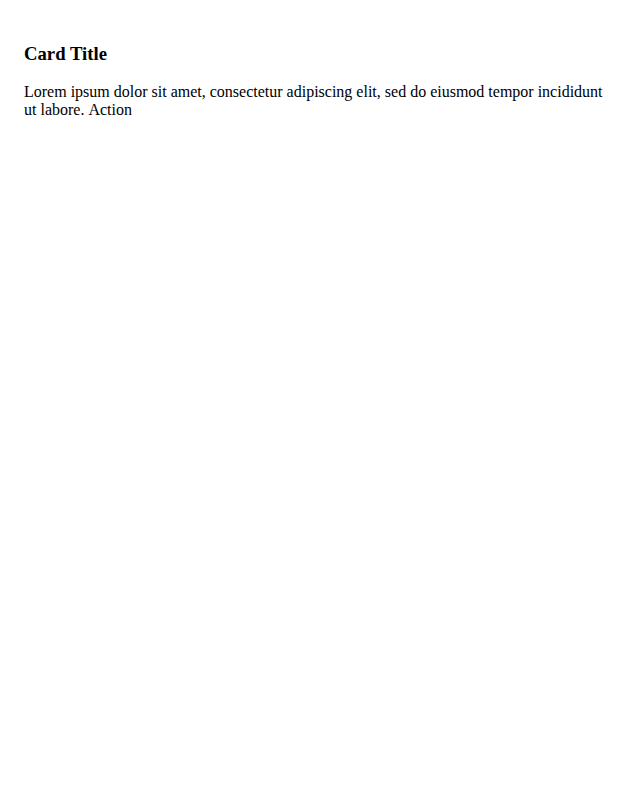
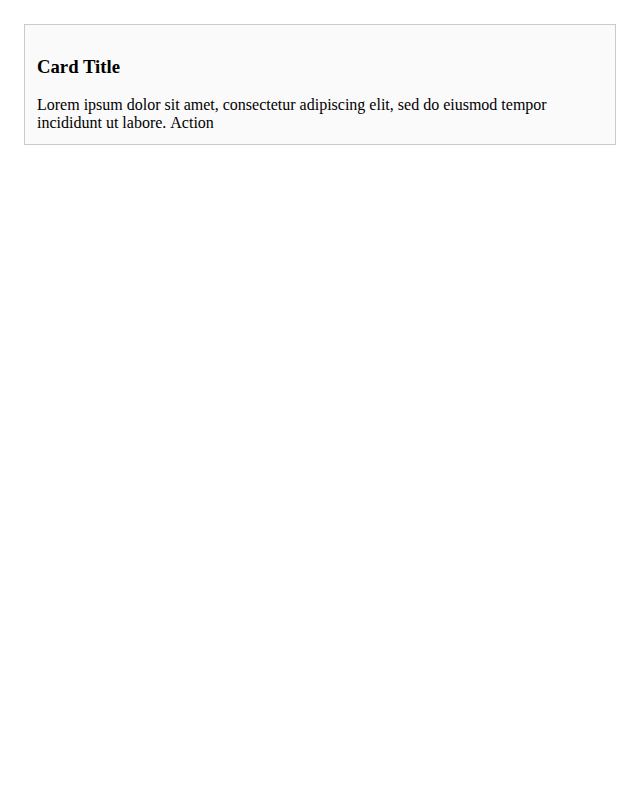
fix(helix): fix eight more base examples, and a doubled link
Quality pass, second batch.

Card had no box, so a heading and a paragraph sat loose on the page. Button was
bare text, the branch that undresses triggers being right about the platform and
wrong about a diagram. Button Group had the same and did not get the fix, because
`EXTRA` is keyed by family and its three children are buttons: the box is a
shared constant now, referenced by both.

Table was the interesting one. Its own docs say the head and every row are
`display: contents` so their cells become the grid's items, and the styled tier
was the only place that had been written. Without it the grid held three items
where it wanted nine, so three headings ran together as "ServiceRegionStatus"
with the rows beneath them out of step.

Skeleton rendered nothing at all, its layout classes living in `default.css`
which this generator does not carry across. A skeleton has no size of its own by
design, so the classes are the diagram.

List ran a name into the caption under it. Toast ran the tone mark, the message
and the dismiss together with no surface to sit on. Meter had a track at
`inline-size: 100%` inside a host with no width, so 42 percent drew as the
characters and no bar.

And Skeleton's markup linked its own stylesheet, so the generated copy carried
two identical links: harmless to render, and a diagram telling a reader to write
the line twice.

Changed region(s): [[0.0312, 0.0312, 0.9375, 0.1875]]

diff --git a/helix/web/src/table/.examples/base.css b/helix/web/src/table/.examples/base.css
@@ -64,3 +64,21 @@ helix-base-icon::part(svg) {
   flex: none;
   inline-size: 1em;
 }
+
+helix-base-table::part(table) {
+  display: grid;
+  gap: 0.25rem 1rem;
+  grid-template-columns: var(--table-template, 1fr);
+}
+
+/* The head and every row take no box, so their cells are the grid's items.
+   
+   That is stated in the component's own docs as something the styled tier does,
+   and the styled tier was the only place it was written: without it the cells
+   stayed inside their rows, the grid had three items where it wanted nine, and
+   the three headings ran together as "ServiceRegionStatus" with the rows under
+   them out of step. */
+helix-base-table::part(head),
+helix-base-table-row {
+  display: contents;
+}

diff --git a/helix/web/src/button-group/.examples/base.css b/helix/web/src/button-group/.examples/base.css
@@ -43,6 +43,11 @@ helix-base-icon {
   inline-size: 1em;
 }
 
+helix-base-button-group {
+  display: inline-flex;
+  gap: 0.25rem;
+}
+
 helix-base-button::part(button) {
   all: unset;
   box-sizing: border-box;
@@ -61,4 +66,12 @@ helix-base-icon::part(svg) {
 helix-base-button::part(button):focus-visible {
   outline: 2px solid var(--_gray-mark);
   outline-offset: 2px;
+}
+
+helix-base-button::part(button) {
+  background-color: var(--_gray-surface);
+  border: 1px solid var(--_gray-line);
+  cursor: pointer;
+  display: inline-flex;
+  padding: 0.25rem 0.75rem;
 }

diff --git a/helix/web/src/skeleton/.examples/base.css b/helix/web/src/skeleton/.examples/base.css
@@ -67,8 +67,30 @@ helix-base-icon::part(svg) {
   inline-size: 1em;
 }
 
-helix-base-skeleton::part(skeleton) {
-  background-color: var(--_gray-fill);
-  display: block;
-  min-block-size: 1em;
+.row {
+  align-items: center;
+  display: flex;
+  gap: 0.75rem;
+}
+
+.avatar {
+  block-size: 2.5rem;
+  border-radius: 50%;
+  inline-size: 2.5rem;
+}
+
+.stack,
+.lines {
+  display: flex;
+  flex: 1;
+  flex-direction: column;
+  gap: 0.5rem;
+}
+
+.line-name {
+  inline-size: 40%;
+}
+
+.line-detail {
+  inline-size: 70%;
 }

diff --git a/helix/web/src/toast/.examples/base.css b/helix/web/src/toast/.examples/base.css
@@ -98,3 +98,22 @@ helix-base-toast-item::part(item):focus-visible {
   outline: 2px solid var(--_gray-mark);
   outline-offset: 2px;
 }
+
+helix-base-toast::part(region) {
+  display: flex;
+  flex-direction: column;
+  gap: 0.5rem;
+}
+
+helix-base-toast-item::part(item) {
+  align-items: center;
+  background-color: var(--_gray-surface);
+  border: 1px solid var(--_gray-line);
+  display: flex;
+  gap: 0.5rem;
+  padding: 0.5rem 0.75rem;
+}
+
+helix-base-toast-item::part(content) {
+  flex: 1;
+}

diff --git a/helix/web/src/button/.examples/base.css b/helix/web/src/button/.examples/base.css
@@ -62,3 +62,11 @@ helix-base-button::part(button):focus-visible {
   outline: 2px solid var(--_gray-mark);
   outline-offset: 2px;
 }
+
+helix-base-button::part(button) {
+  background-color: var(--_gray-surface);
+  border: 1px solid var(--_gray-line);
+  cursor: pointer;
+  display: inline-flex;
+  padding: 0.25rem 0.75rem;
+}

diff --git a/helix/web/src/scroll-area/.examples/base.html b/helix/web/src/scroll-area/.examples/base.html
@@ -5,10 +5,6 @@
   rel="stylesheet"
 />
 
-<link
-  href="styles.css"
-  rel="stylesheet"
->
 <helix-base-scroll-area label="Release notes">
   <p>Cheap intelligence and cheap energy are collapsing in cost at the same moment.</p>
   <p>What was affordable only to an institution becomes affordable to a person.</p>

diff --git a/helix/web/src/card/.examples/base.css b/helix/web/src/card/.examples/base.css
@@ -43,6 +43,13 @@ helix-base-icon {
   inline-size: 1em;
 }
 
+helix-base-card {
+  background-color: var(--_gray-surface);
+  border: 1px solid var(--_gray-line);
+  display: block;
+  padding: 0.75rem;
+}
+
 helix-base-button::part(button) {
   all: unset;
   box-sizing: border-box;

diff --git a/helix/web/src/image/.examples/base.html b/helix/web/src/image/.examples/base.html
@@ -5,10 +5,6 @@
   rel="stylesheet"
 />
 
-<link
-  href="styles.css"
-  rel="stylesheet"
-/>
 <helix-base-image
   alt="A road winding below highland cliffs at sunset"
   src="https://images.unsplash.com/photo-1470071459604-3b5ec3a7fe05?w=800"

diff --git a/helix/web/src/list/.examples/base.css b/helix/web/src/list/.examples/base.css
@@ -54,3 +54,10 @@ helix-base-icon::part(svg) {
   flex: none;
   inline-size: 1em;
 }
+
+helix-base-list-item::part(row) {
+  align-items: baseline;
+  display: flex;
+  gap: 0.5rem;
+  padding: 0.25rem 0;
+}

diff --git a/helix/web/src/meter/.examples/base.css b/helix/web/src/meter/.examples/base.css
@@ -43,6 +43,10 @@ helix-base-icon {
   inline-size: 1em;
 }
 
+helix-base-meter {
+  display: block;
+}
+
 helix-base-meter::part(track) {
   background-color: var(--_gray-fill);
   block-size: 0.5rem;

diff --git a/helix/web/src/skeleton/.examples/base.html b/helix/web/src/skeleton/.examples/base.html
@@ -5,11 +5,6 @@
   rel="stylesheet"
 />
 
-<link
-  href="styles.css"
-  rel="stylesheet"
-/>
-
 <div class="row">
   <helix-base-skeleton class="avatar"></helix-base-skeleton>
   <div class="stack">

diff --git a/helix/web/src/splitter/.examples/base.html b/helix/web/src/splitter/.examples/base.html
@@ -5,11 +5,6 @@
   rel="stylesheet"
 />
 
-<link
-  href="styles.css"
-  rel="stylesheet"
->
-
 <helix-base-splitter default-position="40">
   <helix-base-card slot="start">
     <p>Navigator</p>
